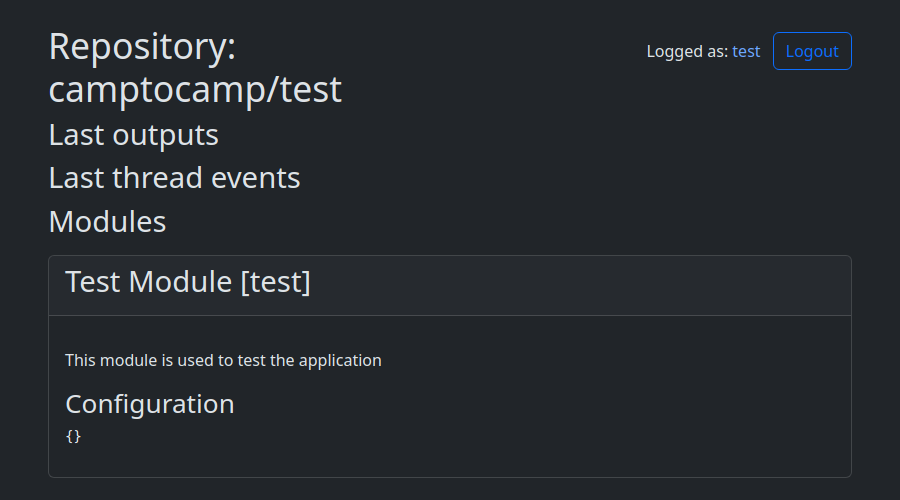
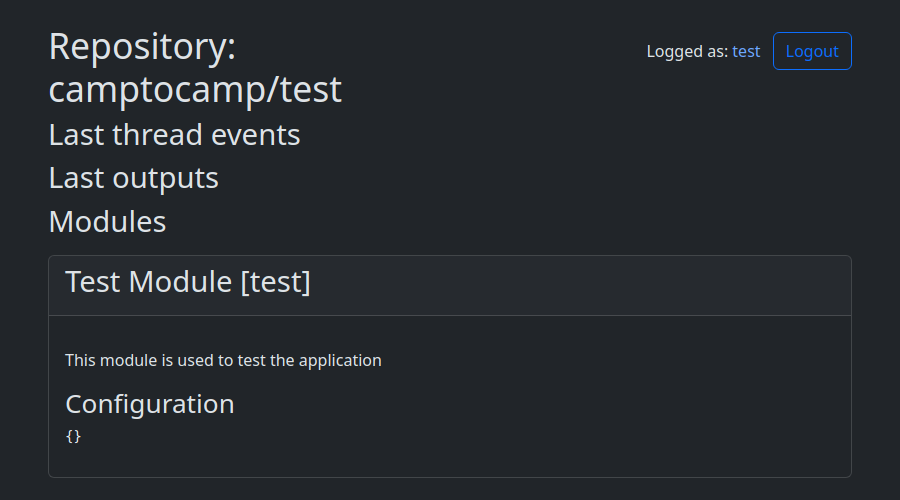
Fix tooltip, logs, audit

Changed region(s): [[0.1244, 0.33, 0.3422, 0.39], [0.1244, 0.24, 0.3422, 0.3]]

diff --git a/github_app_geo_project/templates/project.html b/github_app_geo_project/templates/project.html
@@ -116,11 +116,6 @@
     <div class="alert alert-danger" role="alert">${error}</div>
     %endif
 
-    <h2>Last outputs</h2>
-    %for o in output:
-    <p><a href="${request.route_url('output', id=o[0])}">${o[1]}</a></p>
-    %endfor
-
     <h2>Last thread events</h2>
     %for job in jobs:
     <!---->
@@ -151,7 +146,13 @@
           >
           (<a href="#" data-bs-toggle="tooltip" data-bs-placement="top" data-bs-title="Job id">${job[0]}</a>)
           -
-          <a href="#" data-bs-toggle="tooltip" data-bs-placement="top" data-bs-title="${date_tooltip(job)}">
+          <a
+            href="#"
+            data-bs-toggle="tooltip"
+            data-bs-placement="top"
+            data-bs-html="true"
+            data-bs-title="${date_tooltip(job)}"
+          >
             %if job[7]:
             <!---->
             elapsed:&nbsp;${job[7] - job[5]|pprint_duration}
@@ -174,7 +175,6 @@
             <a href="#" data-bs-toggle="tooltip" data-bs-placement="top" data-bs-title="${job[8]}">Logs</a>
             %endif
           </a>
-          &lt;br/&gt;elapsed:&nbsp;${job[5]|pprint_date}
         </div>
         <!-- for Prettier -->
         %if False:
@@ -182,6 +182,11 @@
     </div>
     %endif
     <!---->
+    %endfor
+
+    <h2>Last outputs</h2>
+    %for o in output:
+    <p><a href="${request.route_url('output', id=o[0])}">${o[1]}</a></p>
     %endfor
 
     <!---->

diff --git a/github_app_geo_project/module/audit/__init__.py b/github_app_geo_project/module/audit/__init__.py
@@ -214,7 +214,7 @@ def _process_snyk_dpkg(
                 if os.path.exists(".github/ghci.yaml"):
                     with open(".github/ghci.yaml", encoding="utf-8") as file:
                         local_config = yaml.load(file, Loader=yaml.SafeLoader).get("audit", {})
-                result, body, _ = audit_utils.snyk(branch, context.module_config, local_config)
+                result, body = audit_utils.snyk(branch, context.module_config, local_config)
                 if result:
                     log += result
                 # if create_issue and result:
@@ -231,9 +231,7 @@ def _process_snyk_dpkg(
             if context.module_data["type"] == "dpkg":
                 body = module_utils.HtmlMessage("Update dpkg packages")
 
-                if not os.path.exists("ci/dpkg-versions.yaml"):
-                    issue_data[key] = ["The file ci/dpkg-versions.yaml does not exist"]
-                else:
+                if os.path.exists("ci/dpkg-versions.yaml"):
                     result = audit_utils.dpkg()
                     if result:
                         repo = context.github_project.github.get_repo(
@@ -315,7 +313,6 @@ class Audit(module.Module[configuration.AuditConfiguration]):
         """
         if "SECURITY.md" in context.event_data.get("push", {}).get("files", []):
             return [module.Action(priority=module.PRIORITY_CRON, data={"type": "outdated"}, title="outdated")]
-        _LOGGER.debug("Event data: %s", context.event_data)
         results: list[module.Action] = []
         snyk = False
         dpkg = False

diff --git a/github_app_geo_project/module/audit/utils.py b/github_app_geo_project/module/audit/utils.py
@@ -21,13 +21,12 @@ _LOGGING = logging.getLogger(__name__)
 
 def snyk(
     branch: str, config: configuration.AuditConfiguration, local_config: configuration.AuditConfiguration
-) -> tuple[list[utils.Message], utils.Message, bool]:
+) -> tuple[list[utils.Message], utils.Message]:
     """
     Audit the code with Snyk.
     """
     install_success = True
     result = []
-    create_issue = True
 
     proc = subprocess.run(  # nosec # pylint: disable=subprocess-run-check
         ["git", "ls-files", "requirements.txt", "*/requirements.txt"], capture_output=True, encoding="utf-8"
@@ -117,7 +116,7 @@ def snyk(
     )
     _LOGGING.debug("Snyk test output:\n%s", test_proc.stdout)
     test_json = json.loads(test_proc.stdout)
-    if test_json.get("ok", True) is False:
+    if isinstance(test_json, dict) and test_json.get("ok", True) is False:
         _LOGGING.error(test_json.get("error"))
 
         command = ["snyk", "test"] + config.get(
@@ -161,11 +160,10 @@ def snyk(
     snyk_fix_proc = subprocess.run(  # nosec # pylint: disable=subprocess-run-check
         command, env=env, capture_output=True, encoding="utf-8"
     )
+    result.append(utils.ansi_proc_dashboard(snyk_fix_proc))
     snyk_fix_message = utils.AnsiMessage(snyk_fix_proc.stdout.strip())
-    if snyk_fix_proc.returncode == 0:
-        create_issue = False
 
-    return result, snyk_fix_message, create_issue
+    return result, snyk_fix_message
 
 
 def outdated_versions(

diff --git a/github_app_geo_project/scripts/process_queue.py b/github_app_geo_project/scripts/process_queue.py
@@ -105,6 +105,14 @@ def _process_job(
                         log="\n".join([*[handler.format(msg) for msg in handler.results], "", result.log])
                     )
                 )
+                session.commit()
+            else:
+                session.execute(
+                    sqlalchemy.update(models.Queue)
+                    .where(models.Queue.id == job_id)
+                    .values(log="\n".join([handler.format(msg) for msg in handler.results]))
+                )
+                session.commit()
             if result is not None and result.transversal_status is not None:
                 module_status.data = result.transversal_status
                 session.commit()

diff --git a/github_app_geo_project/views/project.py b/github_app_geo_project/views/project.py
@@ -151,8 +151,8 @@ def project(request: pyramid.request.Request) -> dict[str, Any]:
         return {
             "styles": formatter.get_style_defs(),
             "repository": f"{owner}/{repository}",
-            "output": session.execute(select_output.limit(20)).all(),
-            "jobs": session.execute(select_job.limit(20)).all(),
+            "output": session.execute(select_output.limit(10)).all(),
+            "jobs": session.execute(select_job.limit(10)).all(),
             "error": None,
             "applications": applications,
             "module_configuration": module_config,
